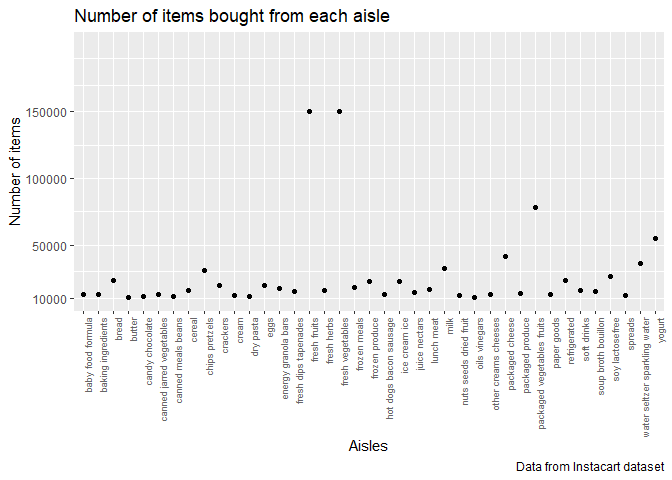
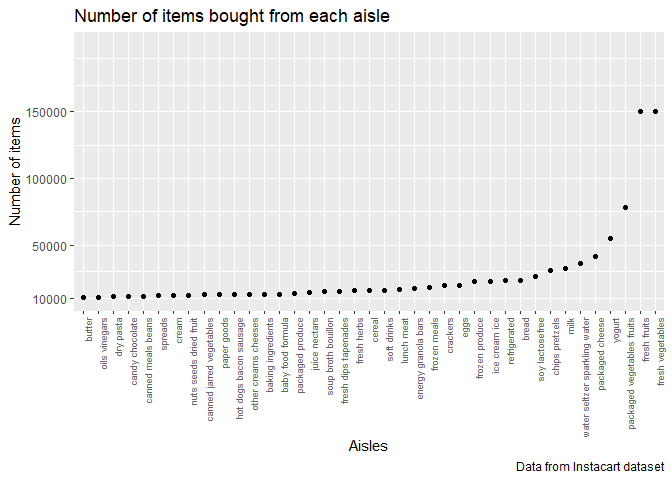
uploading the md file

diff --git a/pw8105_hw3_svs2130.md b/pw8105_hw3_svs2130.md
@@ -135,7 +135,7 @@ instacart %>%
   summarise(n_items = n()) %>% 
   filter(n_items > 10000) %>% 
   arrange(desc(n_items))%>%
-  ggplot(aes(x = aisle, y = n_items)) +
+  ggplot(aes(x = reorder(aisle, n_items), y = n_items)) +
   geom_point() +
   scale_y_continuous(breaks = c(10000, 50000, 100000, 150000),
                      limits = c(10000, 200000), 
